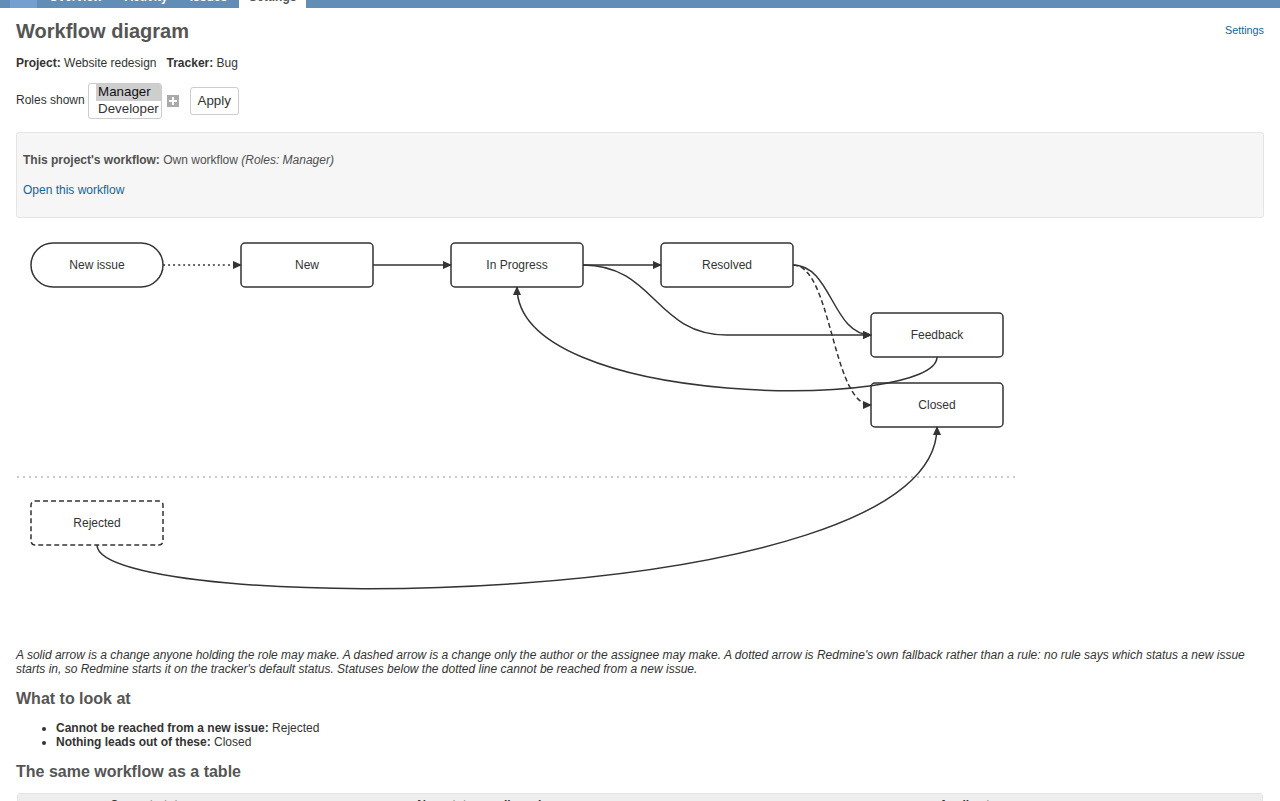
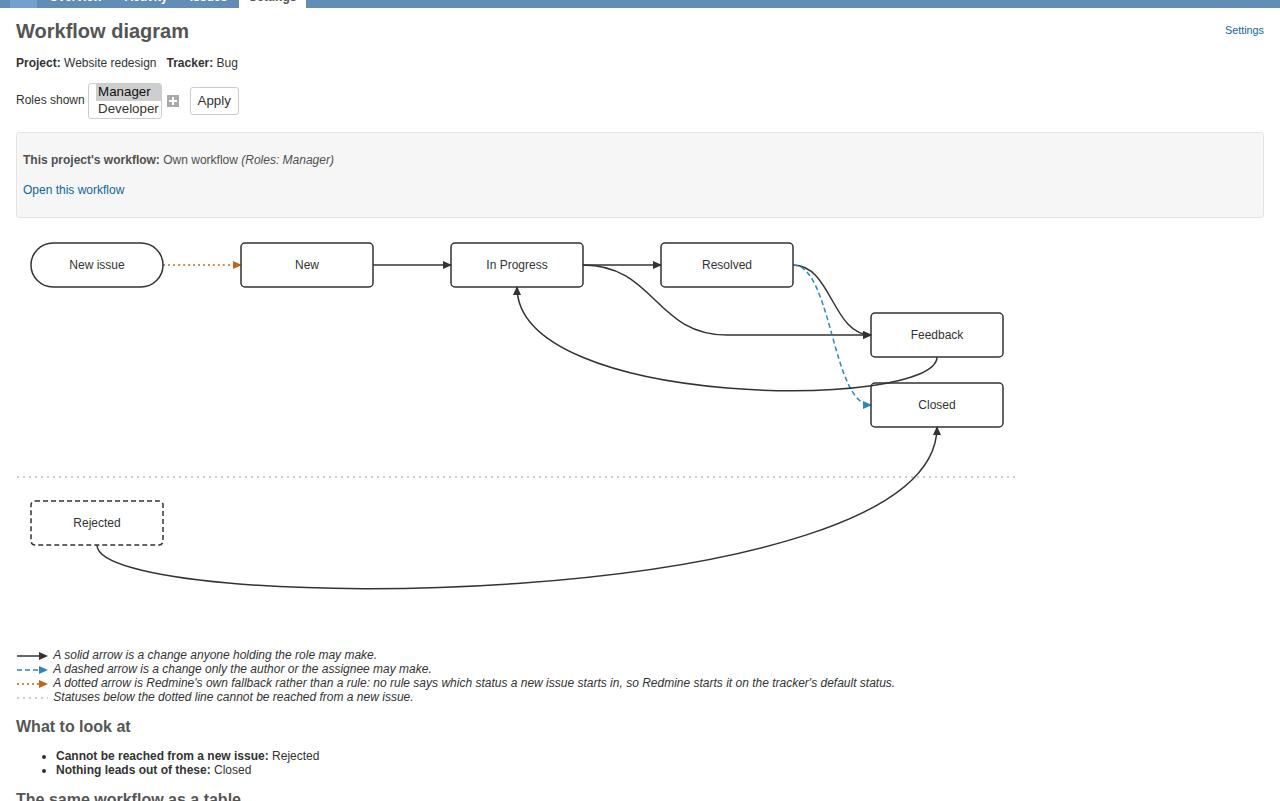
The workflow diagram gets colour, as a second signal
Jan asked for it. The drawing was currentColor throughout, and the argument for
that is written at the top of ProjectWorkflowGraphsHelper: a Redmine theme
changes exactly the colours a diagram would hard-code, and a black stroke on a
dark theme is invisible.

That argument is about colour as the *only* signal. So the line style still
distinguishes the three kinds of arrow and the legend still names each of them in
words -- the picture reads the same in greyscale, and to somebody who cannot
separate the hues -- and colour is added on top so a dashed arrow can be picked
out of a crowded drawing without tracing it.

A dashed arrow, the change only the author or the assignee may make, is blue. The
fallback arrow is amber, which is the hue Redmine already uses for "not quite a
rule", and that is what it is: not a rule at all, but what Redmine does when none
says where a new issue starts. Ordinary arrows, every box and every label keep
currentColor, so a theme still owns most of the drawing.

The two accents are fixed, because a plugin shipping no stylesheet cannot read
the theme to derive one -- so they were measured rather than picked by eye. Both
clear WCAG 2.1 SC 1.4.11's 3:1 for non-text contrast against a white page,
Redmine's own alternate row grey and two common dark-theme backgrounds, and the
numbers are in the source beside the constants. Checked in a browser on both, by
recolouring a real page the way a dark theme would: the boxes and solid arrows
[…]

Changed region(s): [[0.0, 0.8115, 0.9688, 1.0], [0.3125, 0.9988, 0.4062, 1.0], [0.7188, 0.9988, 0.7812, 1.0]]

diff --git a/app/helpers/project_workflow_graphs_helper.rb b/app/helpers/project_workflow_graphs_helper.rb
@@ -10,14 +10,48 @@
 # Rails' include_all_helpers is built from the host application's helper paths
 # and does not reach a plugin's app/helpers.
 #
-# Everything here that produces a colour produces none. The drawing is
-# +currentColor+ throughout, and the two things it distinguishes -- a move anyone
-# may make against one only the author or the assignee may, and a status inside
-# the flow against one outside it -- are drawn as a solid line against a dashed
-# one, with the legend saying so in words. A theme may recolour the page and the
-# drawing follows it; nothing here needs a stylesheet the plugin does not ship.
+# **Line style first, colour second.** What the drawing distinguishes -- a move
+# anyone may make against one only the author or the assignee may, a rule against
+# Redmine's own fallback, a status inside the flow against one outside it -- it
+# distinguishes by line style, and the legend says each of them in words. Colour
+# is added on top of that so a dashed arrow can be picked out of a crowded
+# drawing without tracing it, and it carries nothing on its own: remove every
+# colour and the picture still says the same things.
+#
+# Ordinary arrows, every box and every label stay +currentColor+, so the bulk of
+# the drawing is the theme's own colour and a theme that recolours the page still
+# owns most of it. The two accents are fixed and have to be -- an accent derived
+# from the theme would mean reading the theme, which a plugin shipping no
+# stylesheet cannot do -- so they were measured rather than chosen by eye. See
+# CONDITIONAL_STROKE.
 module ProjectWorkflowGraphsHelper
   include RedmineProjectWorkflows::VersionHelper
+
+  # The accent for an arrow only the author or the assignee may make, and for
+  # Redmine's own fallback. Both clear WCAG 2.1 SC 1.4.11's 3:1 for non-text
+  # contrast against every ground the drawing can plausibly land on -- a white
+  # page, Redmine's own alternate row grey, and two common dark-theme
+  # backgrounds. Measured rather than assumed:
+  #
+  #                 #ffffff   #f6f6f6   #1e1e1e   #2b2b2b
+  #   #2E86C1          3.97      3.67      4.20      3.57
+  #   #C0651A          4.10      3.80      4.06      3.45
+  #
+  # That is why they are mid-tone. A darker blue reads better on white and
+  # disappears on a dark theme; a brighter one does the reverse. These two are
+  # the compromise, and changing either means measuring again -- the numbers
+  # above are the whole argument for the values.
+  #
+  # Amber for the fallback because it is the hue Redmine already uses for "this
+  # is not quite a rule", and the fallback is exactly that: not a rule at all,
+  # but what Redmine does when none says where a new issue starts.
+  CONDITIONAL_STROKE = '#2E86C1'
+  FALLBACK_STROKE = '#C0651A'
+
+  # One legend line: which of the four things it is about, and the sentence. The
+  # kind is what lets the view draw a sample beside the words; the words are what
+  # carry the meaning.
+  LegendEntry = Struct.new(:kind, :text)
 
   # The action the drawing lives on, for gating a link on the very thing the
   # target authorizes rather than on a permission name -- two permissions reach
@@ -111,6 +145,71 @@ module ProjectWorkflowGraphsHelper
     ''.html_safe
   end
 
+  # The accent for one arrow, and nil for an ordinary one -- which keeps
+  # `currentColor` from the group it is in, so a theme still owns most of the
+  # drawing. See the note at the top of this file for why these two values.
+  def project_workflow_graph_stroke(routed)
+    return FALLBACK_STROKE if routed.fallback
+    return CONDITIONAL_STROKE if routed.conditional
+
+    nil
+  end
+
+  # Each arrow needs an arrowhead of its own colour. One marker served every
+  # arrow while every arrow was the same colour; it cannot now, and
+  # `context-stroke` -- the keyword that would let one marker follow its line --
+  # is not safe on every browser the supported Redmine versions run on.
+  def project_workflow_graph_marker(routed)
+    return 'project-workflow-graph-arrow-fallback' if routed.fallback
+    return 'project-workflow-graph-arrow-conditional' if routed.conditional
+
+    'project-workflow-graph-arrow'
+  end
+
+  # The three arrowhead markers, as [id, fill]. `currentColor` for the ordinary
+  # one, so it follows the theme exactly as its lines do.
+  def project_workflow_graph_markers
+    [%w[project-workflow-graph-arrow currentColor],
+     ['project-workflow-graph-arrow-conditional', CONDITIONAL_STROKE],
+     ['project-workflow-graph-arrow-fallback', FALLBACK_STROKE]]
+  end
+
+  # A small picture of the thing each legend line is about: the same line style,
+  # the same colour, and an arrowhead where the drawing has one.
+  #
+  # Decorative, and marked so: the sentence beside it carries the meaning, and a
+  # screen reader that read this too would say the same thing twice. The one
+  # inline style is `vertical-align`, because the sample sits on the text
+  # baseline otherwise and the plugin ships no stylesheet to say so elsewhere.
+  def project_workflow_graph_legend_sample(kind)
+    return project_workflow_graph_band_sample if kind == :band
+
+    stroke = { dashed: CONDITIONAL_STROKE, fallback: FALLBACK_STROKE }.fetch(kind, 'currentColor')
+    dash = { dashed: '5 3', fallback: '2 3' }[kind]
+    project_workflow_graph_sample_svg do
+      safe_join([tag.line(x1: 1, y1: 6, x2: 23, y2: 6, stroke: stroke, 'stroke-width': 1.5,
+                          'stroke-dasharray': dash),
+                 tag.path(d: 'M 23 2 L 32 6 L 23 10 z', fill: stroke)])
+    end
+  end
+
+  # The band's line rather than a box: what the legend line is about is the
+  # separator, and the statuses under it are dashed because they are outside the
+  # flow rather than because of anything the separator does.
+  def project_workflow_graph_band_sample
+    project_workflow_graph_sample_svg do
+      tag.line(x1: 1, y1: 6, x2: 32, y2: 6, stroke: 'currentColor', 'stroke-width': 1,
+               'stroke-dasharray': '2 4', opacity: 0.5)
+    end
+  end
+  private :project_workflow_graph_band_sample
+
+  def project_workflow_graph_sample_svg(&)
+    tag.svg(width: 34, height: 12, viewBox: '0 0 34 12', 'aria-hidden': true, focusable: false,
+            class: 'project-workflow-graph-legend-sample', style: 'vertical-align: middle', &)
+  end
+  private :project_workflow_graph_sample_svg
+
   # The legend, as the sentences that are actually about something on the page.
   # A line explaining a dashed arrow above a drawing that has none is
   # instructions for a thing that is not there, and the third kind -- core's own
@@ -119,11 +218,11 @@ module ProjectWorkflowGraphsHelper
   def project_workflow_graph_legend(layout)
     [
       [layout.edges.any? { |routed| !routed.conditional && !routed.fallback },
-       :text_project_workflow_graph_legend_solid],
-      [layout.edges.any?(&:conditional), :text_project_workflow_graph_legend_dashed],
-      [layout.edges.any?(&:fallback), :text_project_workflow_graph_legend_fallback],
-      [!layout.band_top.nil?, :text_project_workflow_graph_legend_band]
-    ].filter_map { |applies, key| l(key) if applies }
+       :solid, :text_project_workflow_graph_legend_solid],
+      [layout.edges.any?(&:conditional), :dashed, :text_project_workflow_graph_legend_dashed],
+      [layout.edges.any?(&:fallback), :fallback, :text_project_workflow_graph_legend_fallback],
+      [!layout.band_top.nil?, :band, :text_project_workflow_graph_legend_band]
+    ].filter_map { |applies, kind, key| LegendEntry.new(kind, l(key)) if applies }
   end
 
   # The three diagnostics, each as [label, nodes], and only the ones that have

diff --git a/spec/controllers/project_workflows_graph_spec.rb b/spec/controllers/project_workflows_graph_spec.rb
@@ -403,6 +403,85 @@ describe ProjectWorkflowsController, type: :controller do
       expect(response.body).not_to include(ERB::Util.html_escape(I18n.t(:text_project_workflow_graph_legend_fallback)))
     end
 
+    # Colour, added on Jan's word on 2026-08-29, is a *second* signal: the line
+    # style still distinguishes the three kinds and the legend still names each
+    # of them in words. These examples pin the half that is easy to lose --
+    # that an ordinary arrow is left to inherit the theme's own colour, so a
+    # theme still owns most of the drawing, and that an arrowhead is the colour
+    # of the line it ends.
+    describe 'the accents on the arrows' do
+      let(:helper_module) { ProjectWorkflowGraphsHelper }
+
+      def paths
+        graph_svg.scan(/<path[^>]*class="project-workflow-graph-edge[^"]*"/m)
+      end
+
+      it 'leaves an ordinary arrow to inherit the theme colour' do
+        transition(new_status, assigned)
+
+        get :graph, params: graph_params
+
+        ordinary = paths.reject { |p| p.include?('stroke-dasharray') }
+        expect(ordinary).not_to be_empty
+        expect(ordinary).to all(satisfy { |path| path.exclude?('stroke="#') })
+        expect(graph_svg).to include('stroke="currentColor"')
+      end
+
+      it 'accents an arrow only the author or the assignee may make' do
+        WorkflowTransition.create!(tracker_id: tracker.id, role_id: role.id, project_id: nil,
+                                   old_status_id: new_status.id, new_status_id: assigned.id,
+                                   author: true)
+
+        get :graph, params: graph_params
+
+        dashed = paths.select { |p| p.include?('stroke-dasharray="5 3"') }
+        expect(dashed).not_to be_empty
+        expect(dashed).to all(include(%(stroke="#{helper_module::CONDITIONAL_STROKE}")))
+        expect(dashed).to all(include('project-workflow-graph-arrow-conditional'))
+      end
+
+      it "accents Redmine's own fallback differently again" do
+        transition(new_status, assigned)
+
+        get :graph, params: graph_params
+
+        dotted = paths.select { |p| p.include?('stroke-dasharray="2 3"') }
+        expect(dotted).not_to be_empty
+        expect(dotted).to all(include(%(stroke="#{helper_module::FALLBACK_STROKE}")))
+        expect(dotted).to all(include('project-workflow-graph-arrow-fallback'))
+      end
+
+      # One marker served every arrow while every arrow was the same colour. It
+      # cannot now: an arrowhead that stayed the text colour on a coloured line
+      # is the kind of thing nobody notices until it is in a screenshot.
+      it 'gives each colour an arrowhead of its own' do
+        transition(new_status, assigned)
+
+        get :graph, params: graph_params
+
+        %w[project-workflow-graph-arrow
+           project-workflow-graph-arrow-conditional
+           project-workflow-graph-arrow-fallback].each do |id|
+          expect(graph_svg).to include(%(<marker id="#{id}"))
+        end
+        expect(graph_svg).to include(%(fill="#{helper_module::CONDITIONAL_STROKE}"))
+        expect(graph_svg).to include(%(fill="#{helper_module::FALLBACK_STROKE}"))
+      end
+
+      # The legend gained a picture of each line it describes. It is decorative:
+      # the sentence carries the meaning, and a screen reader reading both would
+      # say the same thing twice.
+      it 'draws a sample beside each legend line, hidden from a screen reader' do
+        transition(new_status, assigned)
+
+        get :graph, params: graph_params
+
+        samples = response.body.scan(/<svg[^>]*project-workflow-graph-legend-sample[^>]*>/)
+        expect(samples.size).to eq(2)
+        expect(samples).to all(include('aria-hidden="true"'))
+      end
+    end
+
     it 'draws the generic workflow for a combination the project inherits' do
       transition(new_status, assigned)
 

diff --git a/docs/DECISIONS.md b/docs/DECISIONS.md
@@ -1044,3 +1044,5 @@ All Class A unless it says otherwise.
 | 2026-08-29 | Which word the documentation uses for the workflow every project shares | **"generic", matching the screens** | The first draft said "shared", which reads better in prose but appears nowhere in the interface, so a reader would look for it and not find it. The README introduces the term once — "shared by every project — the *generic* workflow" — and uses the screens' word from then on. |
 | 2026-08-29 | Where the A4 list of surprising behaviours went | **`docs/gotchas.md`, linked from the install notice and the documentation table** | It was a README section and a release criterion depends on it being "written down where somebody installing it will read them". A link from the notice at the top satisfies that better than a section most readers scroll past. `docs/release-criteria.md` now points at the new file. |
 | 2026-08-29 | Screenshots | **Seven, committed under `docs/images/`, reproducible** | About 570 KB in total, cropped to the content rather than full pages. `dev/e2e/seed_docs.rb` and `dev/e2e/docshots.mjs` regenerate them, because an illustration nobody can reproduce goes stale silently. The workflow it draws is a plain path with two shortcuts: Redmine's default everything-to-everything workflow draws as spaghetti and illustrates nothing. |
+
+| 2026-08-29 | Colour in the workflow diagram, asked for by Jan | **Two fixed accents, on top of the line style — never instead of it** | The drawing was `currentColor` throughout, argued at the top of `ProjectWorkflowGraphsHelper`: a theme changes exactly the colours a diagram would hard-code, and a black stroke on a dark theme is invisible. That argument is about colour as the *only* signal. Line style and the legend still carry the meaning, so the picture reads the same in greyscale; colour is added so a dashed arrow can be picked out of a crowded drawing without tracing it. Ordinary arrows and every box stay `currentColor`, so a theme still owns most of it. The two accents (`#2E86C1`, `#C0651A`) are fixed because a plugin shipping no stylesheet cannot read the theme, and they were *measured* — both clear WCAG 1.4.11's 3:1 against `#ffffff`, `#f6f6f6`, `#1e1e1e` and `#2b2b2b`, with the numbers in the source. Verified in a browser on a simulated dark theme as well as a light one. |

diff --git a/docs/usage.md b/docs/usage.md
@@ -186,19 +186,26 @@ Under the drawing, in words:
 - **Not used by the selected roles** — a status the tracker's workflow uses under
   some other role.
 
-Three kinds of arrow, and a legend that names the ones actually on the page:
+Three kinds of arrow, and a legend that names the ones actually on the page,
+each with a sample of the line it describes:
 
 | | |
 |---|---|
-| **Solid** | A change anyone holding the role may make. |
-| **Dashed** | A change only the author or the assignee may make. |
-| **Dotted** | Redmine's own fallback rather than a rule — see below. |
+| **Solid**, in the page's own colour | A change anyone holding the role may make. |
+| **Dashed**, blue | A change only the author or the assignee may make. |
+| **Dotted**, amber | Redmine's own fallback rather than a rule — see below. |
 
 A status in a dashed box below the dotted line cannot be reached from a new
-issue. The drawing uses line style rather than colour on purpose: a Redmine theme
-changes exactly the colours a diagram would otherwise hard-code, and a black
-stroke on a dark theme is invisible. Everything the picture distinguishes, the
-legend also says in words.
+issue.
+
+**Colour is the second signal, never the only one.** The line style is what
+distinguishes the three kinds, and the legend says each of them in words, so the
+picture reads the same in greyscale or to somebody who cannot separate the hues.
+Ordinary arrows and every box keep the page's own colour, so a Redmine theme
+still owns most of the drawing; the two accents are fixed, because a plugin that
+ships no stylesheet cannot read the theme to derive one. Both were measured to
+stay legible on a white page, on Redmine's alternate row grey and on two common
+dark-theme backgrounds.
 
 Underneath is the same workflow as a table, which is what a screen reader reads,
 what Ctrl-F finds and what prints legibly.

diff --git a/CHANGELOG.md b/CHANGELOG.md
@@ -93,6 +93,15 @@ The workflow as a drawing.
 
 ### Changed
 
+- **The workflow diagram has colour.** A dashed arrow — a change only the author
+  or the assignee may make — is blue, and Redmine's own fallback arrow is amber;
+  ordinary arrows, every box and every label keep the page's own colour. The
+  legend now draws a sample of each line beside its sentence. Colour is a second
+  signal and carries nothing on its own: the line style still distinguishes the
+  three kinds and the legend still names them in words, so the picture reads the
+  same in greyscale. Both accents were measured against a white page, Redmine's
+  alternate row grey and two dark-theme backgrounds.
+
 - **The warning at the top of the README changed from "alpha stage, do not use
   in production" to a notice that says what you are taking on.** The plugin is
   new and has not been through a wide range of production installations, and the
